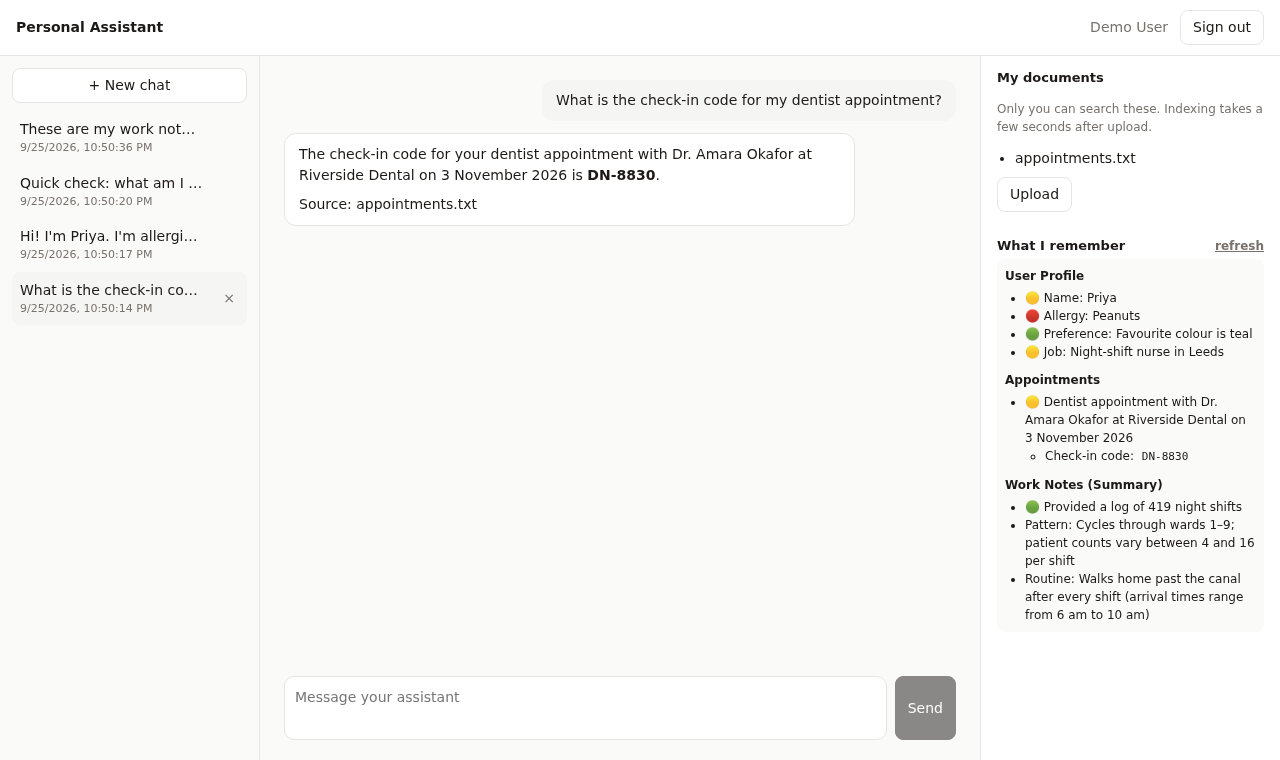
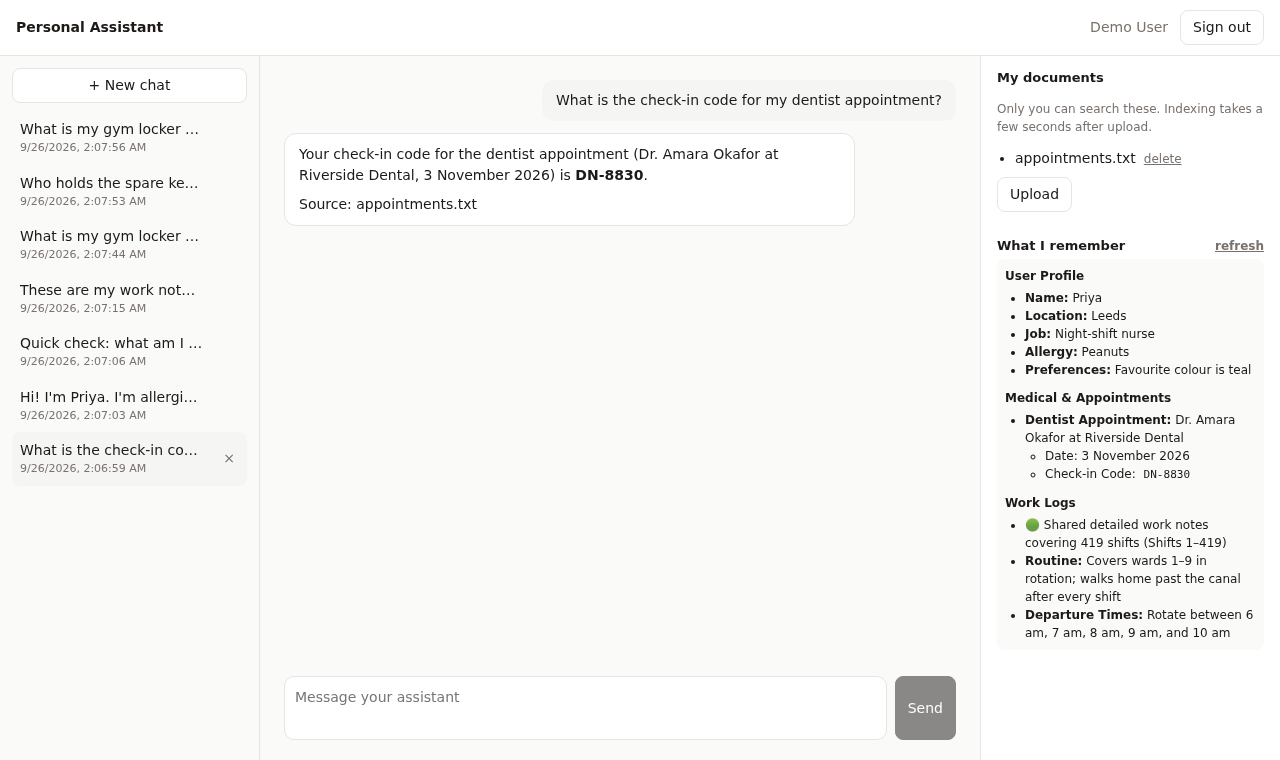
feat(personal-assistant): streamed replies and document delete, kernel v0.1.21 (#4)
* chore(get-started): run kernel v0.1.21 by default

* feat(personal-assistant): stream replies and delete documents (kernel v0.1.21)

diff --git a/apps/personal-assistant/web/src/api.ts b/apps/personal-assistant/web/src/api.ts
@@ -23,20 +23,48 @@ export const getMe = async () => json<Me>(await authFetch("/oauth/userinfo"));
 // The kernel does not replay history: send the whole conversation each turn,
 // plus its conversation_id so the turn is saved to the same thread.
 //
-// This waits for the whole reply instead of streaming it. The kernel can
-// stream ("stream": true, server-sent events), but on v0.1.20 a streamed turn
-// is not written to the user's long-term memory. See README "Not yet".
+// With "stream": true the reply comes back as server-sent events, one JSON
+// object per `data:` line, told apart by `type`:
+//   {"type":"text","content":"…"}      a piece of the reply, in order
+//   {"type":"content","content":"…"}   the whole reply once more, at the end
+//   {"type":"error","error":"…"}       the turn failed (a `done` still follows)
+//   {"type":"done","conversation_id":"…","cited_sources":[…], …}
+// Streamed turns are saved and remembered like any other (kernel v0.1.21+).
 export async function chat(
   messages: Message[],
   conversationId: string | null,
+  onText: (textSoFar: string) => void,
 ): Promise<{ text: string; conversationId: string; sources: string[] }> {
   const res = await authFetch(`/v1/apps/${APP}/agents/${AGENT}/chat`, {
     method: "POST",
     headers: { "content-type": "application/json" },
-    body: JSON.stringify({ messages, conversation_id: conversationId ?? undefined }),
+    body: JSON.stringify({ messages, conversation_id: conversationId ?? undefined, stream: true }),
   });
-  const body = await json<{ response: string; conversation_id: string; cited_sources?: string[] }>(res);
-  return { text: body.response, conversationId: body.conversation_id, sources: body.cited_sources ?? [] };
+  if (!res.ok || !res.body) await json(res); // throws with the status
+
+  let text = "";
+  let done: { conversation_id: string; cited_sources?: string[] } | null = null;
+  const reader = res.body!.pipeThrough(new TextDecoderStream()).getReader();
+  let buffer = "";
+  for (;;) {
+    const { value, done: ended } = await reader.read();
+    if (ended) break;
+    buffer += value;
+    // Events are separated by a blank line; keep any partial one for later.
+    const events = buffer.split("\n\n");
+    buffer = events.pop()!;
+    for (const event of events) {
+      const data = event.split("\n").filter((l) => l.startsWith("data:")).map((l) => l.slice(5).trim()).join("");
+      if (!data) continue;
+      const frame = JSON.parse(data);
+      if (frame.type === "text") onText((text += frame.content));
+      else if (frame.type === "content") onText((text = frame.content)); // authoritative full text
+      else if (frame.type === "error") throw new Error(`chat: ${frame.error}`);
+      else if (frame.type === "done") done = frame;
+    }
+  }
+  if (!done) throw new Error("chat: the stream ended before the reply was complete");
+  return { text, conversationId: done.conversation_id, sources: done.cited_sources ?? [] };
 }
 
 // ── Conversations ───────────────────────────────────────────────────────────
@@ -46,8 +74,8 @@ export const listConversations = async () =>
 export const getConversation = async (id: string) =>
   json<Conversation & { messages: Message[] }>(await authFetch(`/v1/conversations/${id}`));
 
-// The kernel can answer a moment before it has saved a NEW conversation (seen
-// with streaming), so a rename sent straight away may 404. Retry briefly.
+// The kernel can finish a reply a moment before it has saved a NEW
+// conversation, so a rename sent straight away may 404. Retry briefly.
 export async function renameConversation(id: string, title: string): Promise<void> {
   for (let attempt = 0; ; attempt++) {
     const res = await authFetch(`/v1/conversations/${id}`, {
@@ -78,6 +106,12 @@ export async function uploadDocument(file: File): Promise<void> {
   const form = new FormData();
   form.append("file", file);
   await json(await authFetch(`/api/documents/upload/${FOLDER}`, { method: "POST", body: form }));
+}
+
+// Use /rm/, not DELETE /api/documents/file/: both remove the file, but only
+// /rm/ also removes its indexed text, so the assistant stops answering from it.
+export async function deleteDocument(name: string): Promise<void> {
+  await json(await authFetch(`/api/documents/rm/${FOLDER}/${encodeURIComponent(name)}`, { method: "DELETE" }));
 }
 
 // ── Memory ──────────────────────────────────────────────────────────────────

diff --git a/apps/personal-assistant/web/src/Documents.tsx b/apps/personal-assistant/web/src/Documents.tsx
@@ -1,9 +1,10 @@
 import { useEffect, useRef, useState } from "react";
-import { listDocuments, uploadDocument, type Doc } from "./api";
+import { deleteDocument, listDocuments, uploadDocument, type Doc } from "./api";
 
 export function Documents({ onError }: { onError: (e: unknown) => void }) {
   const [docs, setDocs] = useState<Doc[]>([]);
   const [uploading, setUploading] = useState(false);
+  const [deleting, setDeleting] = useState<string | null>(null);
   const input = useRef<HTMLInputElement>(null);
 
   const refresh = () => listDocuments().then(setDocs).catch(onError);
@@ -23,12 +24,35 @@ export function Documents({ onError }: { onError: (e: unknown) => void }) {
     }
   }
 
+  // Deleting removes the file and its indexed text, so the assistant can no
+  // longer answer from it. (What it already told you, or noted in memory from
+  // those conversations, is separate and stays.)
+  async function remove(name: string) {
+    if (!confirm(`Delete ${name}? The assistant will no longer answer from it.`)) return;
+    setDeleting(name);
+    try {
+      await deleteDocument(name);
+      await refresh();
+    } catch (e) {
+      onError(e);
+    } finally {
+      setDeleting(null);
+    }
+  }
+
   return (
     <section>
       <h3>My documents</h3>
       <p className="muted small">Only you can search these. Indexing takes a few seconds after upload.</p>
       <ul className="docs">
-        {docs.map((d) => <li key={d.name}>{d.name}</li>)}
+        {docs.map((d) => (
+          <li key={d.name}>
+            <span className="doc-name">{d.name}</span>
+            <button className="link" onClick={() => remove(d.name)} disabled={deleting !== null} aria-label={`Delete ${d.name}`}>
+              {deleting === d.name ? "deleting…" : "delete"}
+            </button>
+          </li>
+        ))}
         {docs.length === 0 && <li className="muted">None yet.</li>}
       </ul>
       <input ref={input} type="file" hidden multiple accept=".txt,.md,.pdf,.docx" onChange={(e) => upload(e.target.files)} />

diff --git a/apps/personal-assistant/web/src/Chat.tsx b/apps/personal-assistant/web/src/Chat.tsx
@@ -14,6 +14,7 @@ export function Chat({ conversationId, onSaved, onError }: Props) {
   const [draft, setDraft] = useState("");
   const [busy, setBusy] = useState(false);
   const [sources, setSources] = useState<string[]>([]);
+  const [partial, setPartial] = useState(""); // the reply so far, while it streams
   const bottom = useRef<HTMLDivElement>(null);
 
   // Resuming: the kernel stored every turn, so load them and carry on.
@@ -24,7 +25,7 @@ export function Chat({ conversationId, onSaved, onError }: Props) {
       .catch(onError);
   }, [conversationId, onError]);
 
-  useEffect(() => bottom.current?.scrollIntoView({ block: "end" }), [messages, busy]);
+  useEffect(() => bottom.current?.scrollIntoView({ block: "end" }), [messages, busy, partial]);
 
   async function send() {
     const text = draft.trim();
@@ -35,7 +36,7 @@ export function Chat({ conversationId, onSaved, onError }: Props) {
     setSources([]);
     setBusy(true);
     try {
-      const reply = await chat(history, id);
+      const reply = await chat(history, id, setPartial);
       setMessages([...history, { role: "assistant", content: reply.text }]);
       setSources(reply.sources);
       if (!id) {
@@ -48,6 +49,7 @@ export function Chat({ conversationId, onSaved, onError }: Props) {
     } catch (e) {
       onError(e);
     } finally {
+      setPartial("");
       setBusy(false);
     }
   }
@@ -66,7 +68,9 @@ export function Chat({ conversationId, onSaved, onError }: Props) {
             {m.role === "assistant" ? <Markdown text={m.content} /> : m.content}
           </div>
         ))}
-        {busy && <div className="msg assistant muted">Thinking…</div>}
+        {busy && (partial
+          ? <div className="msg assistant streaming"><Markdown text={partial} /></div>
+          : <div className="msg assistant muted">Thinking…</div>)}
         {sources.length > 0 && (
           <div className="sources muted">From: {sources.map((s) => s.split("/").pop()).join(", ")}</div>
         )}

diff --git a/apps/personal-assistant/web/src/styles.css b/apps/personal-assistant/web/src/styles.css
@@ -52,6 +52,8 @@ header { grid-column: 1 / -1; display: flex; align-items: center; gap: 12px; pad
 .side section + section { margin-top: 24px; }
 .side h3 { font-size: 13px; margin: 0 0 4px; display: flex; justify-content: space-between; align-items: baseline; }
 .docs { padding-left: 18px; margin: 8px 0; }
+.docs .doc-name { overflow-wrap: anywhere; }
+.docs .link { margin-left: 8px; }
 .memory { font-size: 12px; line-height: 1.5; background: var(--bg); padding: 8px; border-radius: 8px; }
 
 @media (max-width: 900px) {

diff --git a/apps/personal-assistant/README.md b/apps/personal-assistant/README.md
@@ -3,10 +3,11 @@
 A small but real assistant app on LibraOS. People sign in with their LibraOS
 account and get:
 
-- **Chat** with the app's own agent.
+- **Chat** with the app's own agent. Replies stream in as they're written.
 - **Past conversations**, listed and resumable.
 - **My documents.** Upload files; the assistant answers from them, and only
-  their owner can search them.
+  their owner can search them. Delete one and the assistant stops answering
+  from it.
 - **Long-term memory.** Tell it something once, and it still knows it in a new
   conversation.
 
@@ -32,7 +33,8 @@ normal user, not an admin.
 
 ## Quickstart
 
-1. Start the kernel from [`get-started/`](../../get-started/README.md). Its
+1. Start the kernel (v0.1.21 or newer) from
+   [`get-started/`](../../get-started/README.md). Its
    `docker-compose.yml` already mounts `libraos-app/` into the kernel and
    switches on memory and document indexing. In `get-started/.env`, set
    `PA_DEMO_PASSWORD` (12+ characters) and check that `LIBRA_OS_OIDC_CLIENTS`
@@ -62,7 +64,8 @@ normal user, not an admin.
 
 Try this: tell it something about yourself, then upload a file (`.txt`, `.md`,
 `.pdf` or `.docx`) and ask about it in a **New chat**. Start a third chat and
-ask what it knows about you.
+ask what it knows about you. Then **delete** the file and ask again in a new
+chat.
 
 ## How it works
 
@@ -95,12 +98,13 @@ would behind one reverse proxy in production.
 | Feature | Call |
 |---|---|
 | Who am I | `GET /oauth/userinfo` |
-| Chat | `POST /v1/apps/personal-assistant/agents/assistant/chat` with `{messages, conversation_id}` |
+| Chat | `POST /v1/apps/personal-assistant/agents/assistant/chat` with `{messages, conversation_id, stream: true}`; the reply comes back as server-sent events |
 | Conversation list | `GET /v1/conversations?agent=assistant` |
 | Resume | `GET /v1/conversations/:id` for the messages, then keep chatting with that `conversation_id` |
 | Title / delete | `PATCH /v1/conversations/:id {title}` / `DELETE /v1/conversations/:id` |
 | Upload | `POST /api/documents/upload/my-documents`, multipart field `file` |
 | List documents | `GET /api/documents/tree/my-documents` |
+| Delete a document | `DELETE /api/documents/rm/my-documents/<name>` |
 | Memory | `GET /v1/managed/memory?agent_id=assistant` |
 
 Things worth knowing:
@@ -109,6 +113,15 @@ Things worth knowing:
   history. `conversation_id` only says where to save the turn. On resume, the
   app loads the stored messages and sends them all with the next question
   ([`Chat.tsx`](web/src/Chat.tsx)).
+- **Replies stream.** With `"stream": true` the kernel answers with
+  server-sent events, one JSON object per `data:` line, told apart by `type`:
+  `text` frames carry the next piece of the reply, one `content` frame repeats
+  the whole reply at the end, and `done` carries `conversation_id` and
+  `cited_sources`. A failed turn sends `{"type":"error","error":"…"}` before
+  `done`. [`api.ts`](web/src/api.ts) reads them with `fetch` and a stream
+  reader (not `EventSource`, which can't `POST` or send a bearer token), and
+  the chat pane renders the Markdown as it grows. Streamed turns are saved and
+  remembered like any other.
 - **New conversations are untitled.** The app names each one after its first
   question with a `PATCH`.
 - **Uploads are private by construction.** For a normal user the kernel stores
@@ -120,6 +133,11 @@ Things worth knowing:
   later conversation. After roughly 8,000 tokens it condenses them into notes,
   which is what the **What I remember** panel shows. Before then the panel is
   empty, but recall already works.
+- **Deleting a document removes its indexed text too**, so a new conversation
+  can no longer answer from it. Use `/api/documents/rm/…`: the kernel also has
+  `DELETE /api/documents/file/…`, which removes the file but leaves its indexed
+  text searchable. Deleting a file doesn't touch memory, though. If you asked
+  about it in a chat, the assistant may still recall that answer (see below).
 - **Document search is keyword (lexical) search** on this setup: the stock
   compose has no vector database, so the kernel falls back to Postgres full-text
   search. Answers report `"grounding": "degraded_retrieval"`. Ask with words that
@@ -127,27 +145,21 @@ Things worth knowing:
 
 ## Not yet
 
-Left out on purpose, because today's kernel (v0.1.20) can't do them, or can't
+Left out on purpose, because today's kernel (v0.1.21) can't do them, or can't
 do them for a normal user:
 
-- **Streaming replies.** The kernel streams (`"stream": true`, server-sent
-  events), and the app did at first. But a streamed turn is never written to
-  long-term memory, so the next conversation had forgotten everything. We
-  checked: after streamed turns the user's `observation_logs` row did not exist;
-  one non-streamed turn created it. The streaming path doesn't write to the
-  memory buffer yet.
-  The app waits for the full reply until that's fixed.
 - **Personal Gmail or calendar.** Connectors are organization-wide, set up by
   an admin; there is no per-user mailbox or calendar a normal user can connect.
 - **Acting for you, with your approval.** Actions with side effects go through
   the kernel's approval queue, and only admins can approve. A user can't
   approve their own assistant's action, so this assistant only talks.
 - **Scheduled tasks or a daily briefing.** The kernel has no scheduler.
-- **Deleting a document.** `DELETE /api/documents/file/…` removes the file, but
-  its indexed text stays searchable, so the assistant would keep answering from
-  it. The app offers no delete rather than a delete that doesn't.
 - **Seeing or deleting your memory item by item.** The panel shows the
-  condensed notes; there's no user-facing delete.
+  condensed notes; there's no user-facing delete. That includes what you
+  learned from a document you have since deleted: memory keeps the
+  conversations, not the files, so an answer the assistant gave you before the
+  delete can come back from memory afterwards (with no **From:** line, because
+  no document was searched).
 
 ## Gotchas we hit
 
@@ -159,9 +171,17 @@ do them for a normal user:
   (`agent_id`) and memory (`agent_id=`) know this agent as plain `assistant`,
   not `personal-assistant/assistant`, so another agent called `assistant` on the
   same kernel would show up in the same places. Pick distinctive ids.
-- **A just-created conversation can 404 for a moment.** With streaming we saw
-  `PATCH /v1/conversations/:id` return 404 when sent straight after the reply,
-  and succeed a moment later. `renameConversation()` retries briefly.
+- **A just-created conversation can 404 for a moment.** On an earlier kernel
+  we saw `PATCH /v1/conversations/:id` return 404 when sent straight after a
+  streamed reply, and succeed a moment later. `renameConversation()` retries
+  briefly.
+- **Two document deletes, one of them half a delete.** `DELETE
+  /api/documents/file/…` removes the file but not its indexed text, so the
+  assistant keeps answering from a file the list no longer shows.
+  `DELETE /api/documents/rm/…` removes both; the app uses that.
+- **Ignore the `content` frame's text if you've kept the `text` frames.** It
+  repeats the whole reply, so appending it too doubles the answer. The app
+  treats it as the final text and replaces what it built up.
 - **Retrieved documents carry their storage path.** The kernel hands each
   retrieved chunk to the model labelled `Source: users/<id>/my-documents/…`, and
   models like to repeat it. [`assistant.md`](libraos-app/agents/assistant.md)

diff --git a/get-started/README.md b/get-started/README.md
@@ -41,6 +41,10 @@ docker compose logs -f libraos     # watch it boot
 The kernel listens on <http://localhost:8900>. Then run the examples above,
 each from its own folder.
 
+The compose file runs kernel **v0.1.21** (`ghcr.io/libraos/libraos:v0.1.21`).
+Set `LIBRAOS_VERSION` to run another; the personal assistant needs v0.1.21 or
+newer. `curl http://localhost:8900/api/version` shows the one running.
+
 What the compose file turns on besides the kernel and Postgres (each line is
 commented in `docker-compose.yml`):
 
